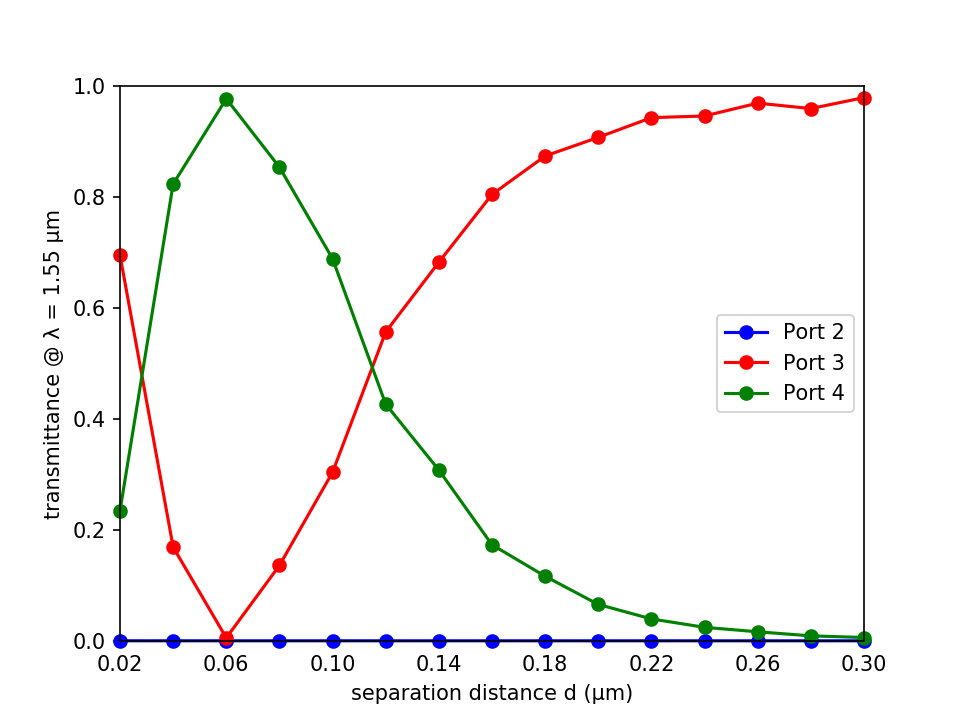
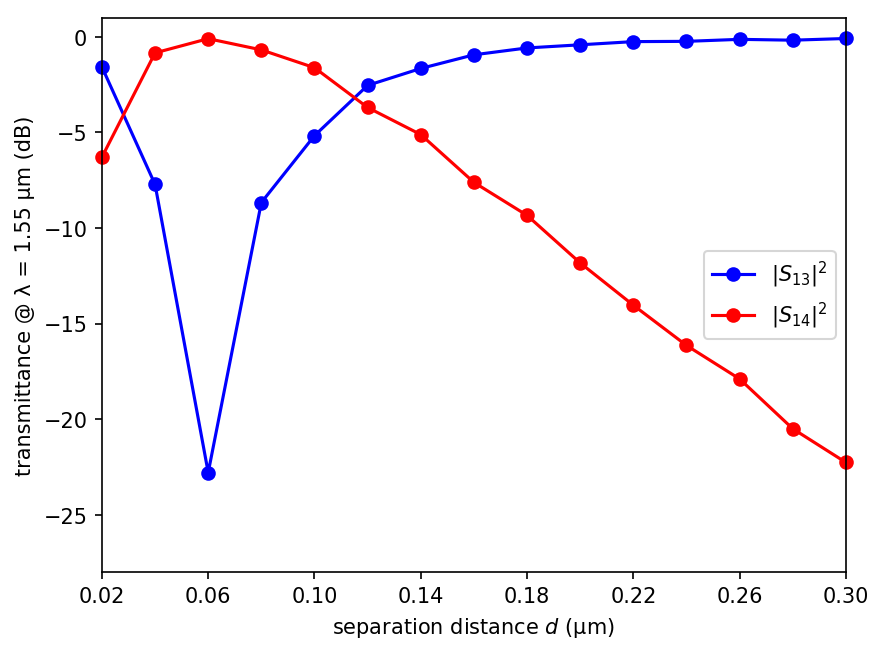
documentation for computing evenly spaced frequencies of DFT fields monitor given a fixed wavelength resolution

diff --git a/doc/docs/Python_Tutorials/GDSII_Import.md b/doc/docs/Python_Tutorials/GDSII_Import.md
@@ -17,7 +17,7 @@ The directional coupler as well as the source and mode monitor geometries are de
 
 The GDSII file is adapted from the [SiEPIC EBeam PDK](https://github.com/lukasc-ubc/SiEPIC_EBeam_PDK) with four major modifications:
 
-+ the computational cell is centered at the origin of the *xy* plane and defined on layer 0
++ the computational cell is centered at the origin of the $xy$ plane and defined on layer 0
 
 + the source and four mode monitors are defined on layers 1-5
 
@@ -143,7 +143,7 @@ if __name__ == '__main__':
     main(args)
 ```
 
-For a given waveguide separation distance (`d`), the simulation computes the transmittance of Ports 2, 3, and 4. The transmittance is the square of the [S-parameter](https://en.wikipedia.org/wiki/Scattering_parameters) which is equivalent to the [mode coefficient](Mode_Decomposition.md). There is an additional mode monitor at Port 1 to compute the input power from the adjacent eigenmode source; this is used for normalization when computing the transmittance. The eight layers of the GDSII file are each converted to a `Simulation` object: the upper and lower branches of the coupler are defined as a collection of [`Prism`](../Python_User_Interface.md#prism)s, the rectilinear regions of the source and flux monitor as a [`Volume`](../Python_User_Interface.md#volume) and [`FluxRegion`](../Python_User_Interface.md#fluxregion). The size of the cell in the $y$ direction is dependent on `d`. The default dimensionality is 2d. (Note that for a 2d cell the `Prism` objects returned by `get_GDSII_prisms` must have a finite height. The finite height of `Volume` objects returned by `GDSII_vol` are ignored in 2d.) An optional input parameter (`three_d`) converts the geometry to 3d by extruding the coupler geometry in the *z* direction and adding an oxide layer beneath similar to a [silicon on insulator](https://en.wikipedia.org/wiki/Silicon_on_insulator) (SOI) substrate. A schematic of the coupler design in 3d generated using MayaVi is shown below.
+For a given waveguide separation distance (`d`), the simulation computes the transmittance of Ports 2, 3, and 4. The transmittance is the square of the [S-parameter](https://en.wikipedia.org/wiki/Scattering_parameters) which is equivalent to the [mode coefficient](Mode_Decomposition.md). There is an additional mode monitor at Port 1 to compute the input power from the adjacent eigenmode source; this is used for normalization when computing the transmittance. The eight layers of the GDSII file are each converted to a `Simulation` object: the upper and lower branches of the coupler are defined as a collection of [`Prism`](../Python_User_Interface.md#prism)s, the rectilinear regions of the source and flux monitor as a [`Volume`](../Python_User_Interface.md#volume) and [`FluxRegion`](../Python_User_Interface.md#fluxregion). The size of the cell in the $y$ direction is dependent on `d`. The default dimensionality is 2d. (Note that for a 2d cell the `Prism` objects returned by `get_GDSII_prisms` must have a finite height. The finite height of `Volume` objects returned by `GDSII_vol` are ignored in 2d.) An optional input parameter (`three_d`) converts the geometry to 3d by extruding the coupler geometry in the $z$ direction and adding an oxide layer beneath similar to a [silicon on insulator](https://en.wikipedia.org/wiki/Silicon_on_insulator) (SOI) substrate. A schematic of the coupler design in 3d generated using MayaVi is shown below.
 
 <center>
 ![](../images/coupler3D.png)
@@ -159,7 +159,7 @@ done
 grep trans: directional_coupler.out |cut -d , -f2- > directional_coupler.dat;
 ```
 
-The transmittance results are plotted in the figure below. When the two waveguide branches are sufficiently separated (`d` > 0.2 μm), practically all of the input power remains in the top branch and is transferred to Port 3. A small amount of the input power is lost due to scattering into radiative modes within the light cone in the tapered sections where the translational symmetry of the waveguide is broken. This is why the power in Port 3 never reaches exactly 100%. For separation distances of less than approximately 0.2 μm, evanescent coupling of the modes from the top to the lower branch begins to transfer some of the input power to Port 4. For `d` of 0.13 μm, the input signal is split evenly into Ports 3 and 4. For `d` of 0.06 μm, the input power is transferred completely to Port 4. Finally, for `d` of less than 0.06 μm, the evanescent coupling becomes rapidly ineffective and the signal again remains mostly in Port 3. Note that there is never any power in Port 2 given its location relative to the input from Port 1.
+The transmittance results for Ports 3 and 4, $|S_{13}|^2$ and $|S_{14}|^2$, are shown in the figure below. (There is essentially no flux into Port 2 and thus $|S_{12}|^2$ is not shown in the figure.) When the two waveguide branches are sufficiently separated (`d` > 0.2 μm), practically all of the input power remains in the top branch and is transferred to Port 3. A small amount of the input power is lost due to scattering into radiative modes within the light cone in the tapered sections where the translational symmetry of the waveguide is broken. This is why the power in Port 3 never reaches exactly 100%. For separation distances of less than approximately 0.2 μm, evanescent coupling of the modes from the top to the lower branch begins to transfer some of the input power to Port 4. For `d` of 0.13 μm, the input signal is split evenly into Ports 3 and 4. For `d` of 0.06 μm, the input power is transferred completely to Port 4. Finally, for `d` of less than 0.06 μm, the evanescent coupling becomes rapidly ineffective and the signal again remains mostly in Port 3.
 
 <center>
 ![](../images/directional_coupler_flux.png)
@@ -200,6 +200,8 @@ if mp.am_master():
 </center>
 
 The field profiles confirm that for `d` of 0.06 μm (Figure 1), the input signal in Port 1 of the top branch is almost completely transferred to Port 4 of the bottom branch. For `d` of 0.13 μm (Figure 2), the input signal is split evenly between the two branches. Finally, for `d` of 0.30 μm (Figure 3), there is no longer any evanescent coupling and the signal remains completely in the top branch. The waveguide regions with no fields in Ports 3 and 4 are PML.
+
+This example involved computing the S-parameters at a single wavelength. For practical applications, however, a broad bandwidth spectra is often desired. To compute the spectra for a set of $N$ evenly spaced wavelengths $\lambda_i$ ($i = 1, 2, ... N$; $\lambda_i \lt \lambda_{i+1}$), one would typically specify the corresponding frequencies for the [DFT fields monitor](Python_User_Interface.md#flux-spectra) by taking the inverse of each wavelength which would produce a set of $N$ *unevenly* spaced frequencies $f_i$ ($i = 1, 2, ... N$; $f_i \lt f_{i+1}$): $f_1 = 1/\lambda_N, f_2 = 1/\lambda_{N-1}, ... f_N = 1/\lambda_1$. Because of the Fourier Uncertainty Principle which requires that the minimum runtime of the simulation be equivalent to the inverse of the *smallest* frequency spacing $\Delta f_{min}$, the simulation runtime may be chosen to be unnecessarily large just to resolve a single frequency spacing (which could become expensive for large 3d simulations). A set of similar but *evenly* spaced frequencies can be specified using an alternative approach. The frequency resolution $\Delta f$ for a DFT field monitor given a wavelength resolution $\Delta\lambda$ around a wavelength $\lambda$ is $\Delta f = \Delta\lambda / \lambda^2$. This relationship is derived from the wave relation $f = c/\lambda$. For example, a 10 nm wavelength resolution around 1.31 μm is equivalent to a frequency resolution of ~0.0058. As a comparison, for 11 evenly spaced wavelengths in the silicon O-band spanning 1.26 to 1.36 μm (which is centered at 1.31 μm), the smallest frequency spacing is ~0.0054 which is roughly 7% smaller.
 
 ### When computing the reflection coefficient |S<sub>11</sub>|<sup>2</sup>, is it necessary to perform a separate normalization run to obtain the incident fields?
 

diff --git a/doc/docs/Python_Tutorials/Basics.md b/doc/docs/Python_Tutorials/Basics.md
@@ -431,7 +431,7 @@ We turn to a similar but slightly different example for which there exists an an
 
 A 1d cell must be used since a higher-dimensional cell will introduce [artificial modes due to band folding](../FAQ.md#why-are-there-strange-peaks-in-my-reflectancetransmittance-spectrum-when-modeling-planar-or-periodic-structures). We will use a Gaussian source spanning visible wavelengths of 0.4 to 0.8 μm. Unlike a [continuous-wave](../Python_User_Interface.md#continuoussource) (CW) source, a pulsed source turns off. This enables a termination condition of when there are no fields remaining in the cell (due to absorption by the PMLs) via the [run function](../Python_User_Interface.md#run-functions) `stop_when_fields_decayed`, similar to the previous example.
 
-Creating an oblique planewave source typically requires specifying two parameters: (1) for periodic structures, the Bloch-periodic wavevector $\vec{k}$ via [`k_point`](../FAQ.md#how-does-k_point-define-the-phase-relation-between-adjacent-unit-cells), and (2) the source amplitude function `amp_func` for setting the $e^{i\vec{k} \cdot \vec{r}}$ spatial dependence ($\vec{r}$ is the position vector). Since we have a 1d cell and the source is at a single point, it is not necessary to specify the source amplitude (see this [2d example](https://github.com/NanoComp/meep/blob/master/python/examples/pw-source.py) for how this is done). The magnitude of the Bloch-periodic wavevector is specified according to the dispersion relation formula for a planewave in homogeneous media with index n: $\omega=c|\vec{k}|/n$. As the source in this example is incident from air, $|\vec{k}|$ is simply equal to the frequency $\omega$ (the minimum frequency of the pulse which excludes the $2\pi$ factor). Note that a fixed wavevector only applies to a single frequency. Any broadband source is therefore incident at a specified angle for only a *single* frequency. This is described in more detail in Section 4.5 ("Efficient Frequency-Angle Coverage") in [Chapter 4](https://arxiv.org/abs/1301.5366) ("Electromagnetic Wave Source Conditions") of the book [Advances in FDTD Computational Electrodynamics: Photonics and Nanotechnology](https://www.amazon.com/Advances-FDTD-Computational-Electrodynamics-Nanotechnology/dp/1608071707).
+Creating an oblique planewave source typically requires specifying two parameters: (1) for periodic structures, the Bloch-periodic wavevector $\vec{k}$ via [`k_point`](../FAQ.md#how-does-k_point-define-the-phase-relation-between-adjacent-unit-cells), and (2) the source amplitude function `amp_func` for setting the $e^{i\vec{k} \cdot \vec{r}}$ spatial dependence ($\vec{r}$ is the position vector). Since we have a 1d cell and the source is at a single point, it is not necessary to specify the source amplitude (see this [2d example](https://github.com/NanoComp/meep/blob/master/python/examples/pw-source.py) for how this is done). The magnitude of the Bloch-periodic wavevector is specified according to the dispersion relation formula for a planewave in homogeneous media with index $n$: $\omega=c|\vec{k}|/n$. As the source in this example is incident from air, $|\vec{k}|$ is simply equal to the frequency $\omega$ (the minimum frequency of the pulse which excludes the $2\pi$ factor). Note that a fixed wavevector only applies to a single frequency. Any broadband source is therefore incident at a specified angle for only a *single* frequency. This is described in more detail in Section 4.5 ("Efficient Frequency-Angle Coverage") in [Chapter 4](https://arxiv.org/abs/1301.5366) ("Electromagnetic Wave Source Conditions") of the book [Advances in FDTD Computational Electrodynamics: Photonics and Nanotechnology](https://www.amazon.com/Advances-FDTD-Computational-Electrodynamics-Nanotechnology/dp/1608071707).
 
 In this example, the plane of incidence which contains $\vec{k}$ and the surface normal vector is $xz$. The source angle $\theta$ is defined in degrees in the counterclockwise (CCW) direction around the $y$ axis with 0 degrees along the $+z$ axis. In Meep, a 1d cell is defined along the $z$ direction. When $\vec{k}$ is not set, only the $E_x$ and $H_y$ field components are permitted. A non-zero $\vec{k}$ results in a 3d simulation where all field components are allowed and are complex (the fields are real, by default). A current source with $E_x$ polarization lies in the plane of incidence and corresponds to the convention of $\mathcal{P}$-polarization. In order to model the $\mathcal{S}$-polarization, we must use an $E_y$ source. This example involves just the $\mathcal{P}$-polarization.
 

diff --git a/doc/docs/Scheme_Tutorials/Basics.md b/doc/docs/Scheme_Tutorials/Basics.md
@@ -409,7 +409,7 @@ We turn to a similar but slightly different example for which there exists an an
 
 A 1d cell must be used since a higher-dimensional cell will introduce [artificial modes due to band folding](../FAQ.md#why-are-there-strange-peaks-in-my-reflectancetransmittance-spectrum-when-modeling-planar-or-periodic-structures). We will use a Gaussian source spanning visible wavelengths of 0.4 to 0.8 μm. Unlike a [continuous-wave](../Scheme_User_Interface.md#source) (CW) source, a pulsed source turns off. This enables a termination condition of when there are no fields remaining in the cell (due to absorption by the PMLs) via the [run function](../Scheme_User_Interface.md#run-functions) `stop-when-fields-decayed`, similar to the previous example.
 
-Creating an oblique planewave source typically requires specifying two parameters: (1) for periodic structures, the Bloch-periodic wavevector $\vec{k}$ via `k-point`, and (2) the source amplitude function `amp-func` for setting the $e^{i\vec{k} \cdot \vec{r}}$ spatial dependence ($\vec{r}$ is the position vector). Since we have a 1d cell and the source is at a single point, it is not necessary to specify the source amplitude (see this [2d example](https://github.com/NanoComp/meep/blob/master/scheme/examples/pw-source.ctl) for how this is done). The magnitude of the Bloch-periodic wavevector is specified according to the dispersion relation formula for a planewave in homogeneous media with index n: $\omega=c|\vec{k}|/n$. As the source in this example is incident from air, $|\vec{k}|$ is simply equal to the frequency ω (the minimum frequency of the pulse which excludes the 2π factor). Note that a fixed wavevector only applies to a single frequency. Any broadband source is therefore incident at a specified angle for only a *single* frequency. This is described in more detail in Section 4.5 ("Efficient Frequency-Angle Coverage") in [Chapter 4](https://arxiv.org/abs/1301.5366) ("Electromagnetic Wave Source Conditions") of the book [Advances in FDTD Computational Electrodynamics: Photonics and Nanotechnology](https://www.amazon.com/Advances-FDTD-Computational-Electrodynamics-Nanotechnology/dp/1608071707).
+Creating an oblique planewave source typically requires specifying two parameters: (1) for periodic structures, the Bloch-periodic wavevector $\vec{k}$ via `k-point`, and (2) the source amplitude function `amp-func` for setting the $e^{i\vec{k} \cdot \vec{r}}$ spatial dependence ($\vec{r}$ is the position vector). Since we have a 1d cell and the source is at a single point, it is not necessary to specify the source amplitude (see this [2d example](https://github.com/NanoComp/meep/blob/master/scheme/examples/pw-source.ctl) for how this is done). The magnitude of the Bloch-periodic wavevector is specified according to the dispersion relation formula for a planewave in homogeneous media with index $n$: $\omega=c|\vec{k}|/n$. As the source in this example is incident from air, $|\vec{k}|$ is simply equal to the frequency $\omega$ (the minimum frequency of the pulse which excludes the 2π factor). Note that a fixed wavevector only applies to a single frequency. Any broadband source is therefore incident at a specified angle for only a *single* frequency. This is described in more detail in Section 4.5 ("Efficient Frequency-Angle Coverage") in [Chapter 4](https://arxiv.org/abs/1301.5366) ("Electromagnetic Wave Source Conditions") of the book [Advances in FDTD Computational Electrodynamics: Photonics and Nanotechnology](https://www.amazon.com/Advances-FDTD-Computational-Electrodynamics-Nanotechnology/dp/1608071707).
 
 In this example, the plane of incidence which contains $\vec{k}$ and the surface normal vector is $xz$. The source angle θ is defined in degrees in the counterclockwise (CCW) direction around the $y$ axis with 0 degrees along the +$z$ axis. In Meep, a 1d cell is defined along the $z$ direction. When $\vec{k}$ is not set, only the E<sub>x</sub> and H<sub>y</sub> field components are permitted. A non-zero $\vec{k}$ results in a 3d simulation where all field components are allowed and are complex (the fields are real, by default). A current source with E<sub>x</sub> polarization lies in the plane of incidence and corresponds to the convention of $\mathcal{P}$-polarization. In order to model the $\mathcal{S}$-polarization, we must use an E<sub>y</sub> source. This example involves just the $\mathcal{P}$-polarization.
 

diff --git a/doc/docs/Build_From_Source.md b/doc/docs/Build_From_Source.md
@@ -106,7 +106,7 @@ Note also that Meep's usage of BLAS/LAPACK, via Harminv, is not generally perfor
 
 ### BLAS
 
-The first thing you must have on your system is a BLAS implementation. "BLAS" stands for "Basic Linear Algebra Subroutines," and is a standard interface for operations like matrix multiplication. It is designed as a building-block for other linear-algebra applications, and is used both directly by LAPACK (see below). By using it, we can take advantage of many highly-optimized implementations of these operations that have been written to the BLAS interface. Note that you will need implementations of BLAS levels 1-3.
+The first thing you must have on your system is a BLAS implementation. "BLAS" stands for "Basic Linear Algebra Subroutines," and is a standard interface for operations like matrix multiplication. It is designed as a building-block for other linear-algebra applications, and is used directly by LAPACK (see below). By using it, we can take advantage of many highly-optimized implementations of these operations that have been written to the BLAS interface. Note that you will need implementations of BLAS levels 1-3.
 
 You can find more BLAS information, as well as a basic implementation, on its [homepage](http://www.netlib.org/blas/). Once you get things working with the basic BLAS implementation, it might be a good idea to try and find a more optimized BLAS code for your hardware. Vendor-optimized BLAS implementations are available as part of the Intel MKL, HP CXML, IBM ESSL, SGI sgimath, and other libraries. An excellent, high-performance, free-software BLAS implementation is  [OpenBLAS](http://www.openblas.net). Another is [ATLAS](http://math-atlas.sourceforge.net/).
 
@@ -126,7 +126,7 @@ Replace `-O3` with your favorite optimization options. On Linux, this could be `
 
 ### LAPACK
 
-LAPACK, the Linear Algebra PACKage, is a standard collection of routines, built on BLAS, for more-complicated (dense) linear algebra operations like matrix inversion and diagonalization. You can download LAPACK from its [homepage](http://www.netlib.org/lapack).
+LAPACK, the Linear Algebra PACKage, is a standard collection of routines, built on top of BLAS, for more-complicated (dense) linear algebra operations like matrix inversion and diagonalization. You can download LAPACK from its [homepage](http://www.netlib.org/lapack).
 
 Note that Meep looks for LAPACK by linking with `-llapack`. This means that the library must be called `liblapack.a` and be installed in a standard directory like `/usr/local/lib`. Alternatively, you can specify another directory via the `LDFLAGS` environment variable as described earlier. See also below for the `--with-lapack=lib` option to our `configure` script, to manually specify a library location.
 
